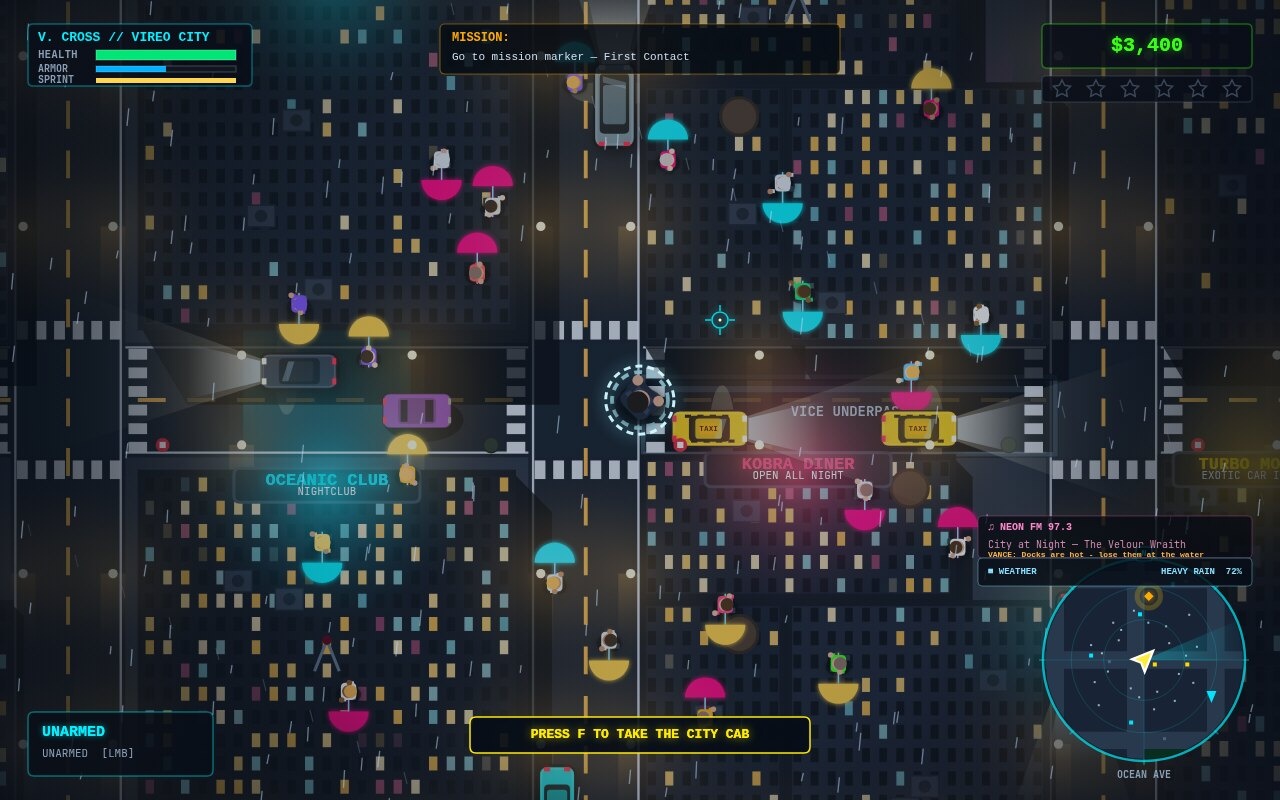
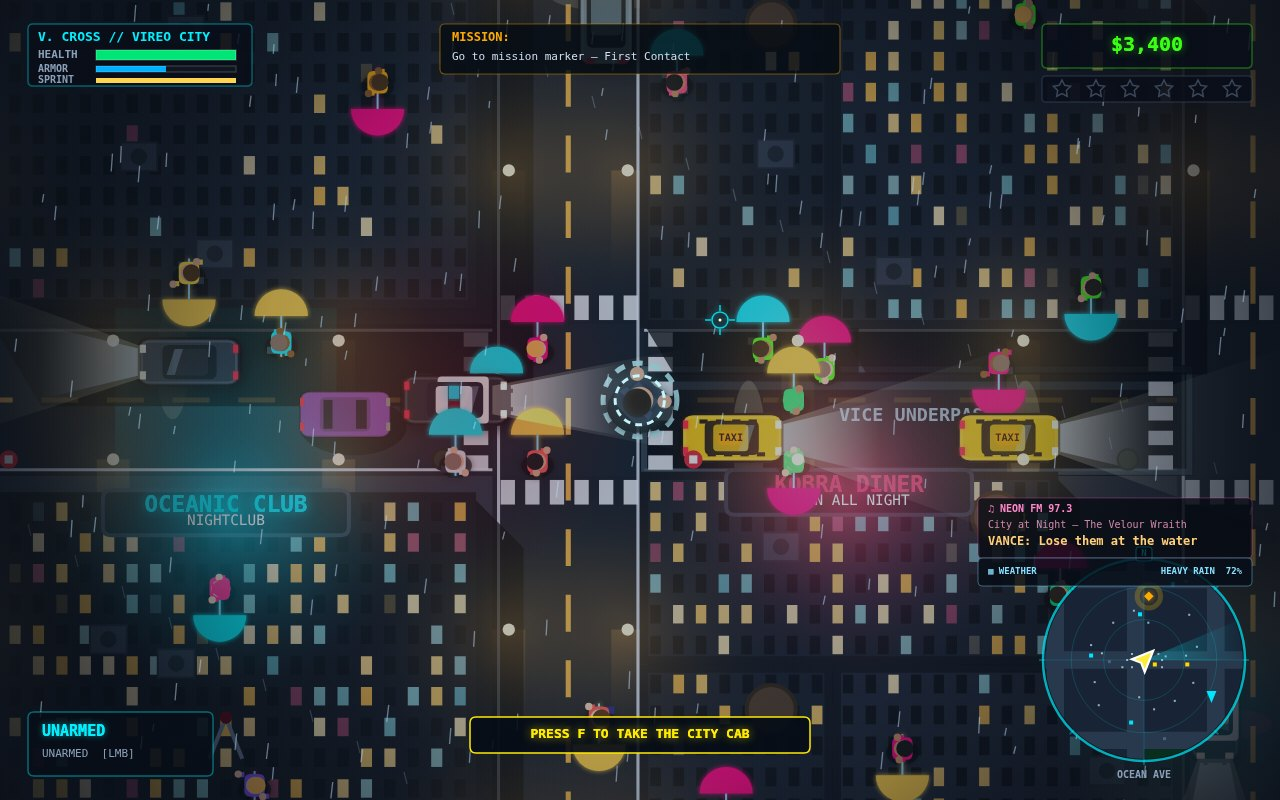
Bring the street shot close enough to read and speak the radio line

diff --git a/game/src/main.js b/game/src/main.js
@@ -140,14 +140,29 @@
       if (VC.traffic) VC.traffic.vehicles.push({ vehicle: nearCab });
 
       VC.camera.snapTo(spawnX, spawnY);
-      VC.camera.zoom = 1.55;
-      shotCamera = { zoom: 1.55, leadDist: 70 };
+      VC.camera.zoom = 2.05;
+      shotCamera = { zoom: 2.05, leadDist: 70 };
       VC.Input.mouse.screenX = 720; VC.Input.mouse.screenY = 320;
       gameTime = 3.5;
       if (VC.pedestrians) {
         VC.pedestrians.MAX_PEDESTRIANS = 24;
         VC.pedestrians.initDeterministic(VC.city, VC.player);
         if (VC.pedestrians.seedShotCrowd) VC.pedestrians.seedShotCrowd(22, VC.player);
+        // Keep a readable cluster of umbrella pedestrians in the road-facing frame.
+        var streetPedPositions = [
+          [690,680], [800,680], [690,735], [815,735],
+          [670,705], [815,705], [830,690], [650,735]
+        ];
+        for (var spi = 0; spi < streetPedPositions.length && spi < VC.pedestrians.pedestrians.length; spi++) {
+          var streetPed = VC.pedestrians.pedestrians[spi];
+          streetPed.x = streetPedPositions[spi][0];
+          streetPed.y = streetPedPositions[spi][1];
+          streetPed.walkAxis = spi % 2 ? 'v' : 'h';
+          streetPed.walkDir = spi % 3 === 0 ? -1 : 1;
+          streetPed.heading = streetPed.walkDir === 1 ? 0 : Math.PI;
+          streetPed.state = 'walking';
+          streetPed.stateTimer = 0;
+        }
         // Add deterministic umbrella/flee offsets to the existing crowd.
         for (var pi = 0; pi < VC.pedestrians.pedestrians.length; pi++) {
           var existingPed = VC.pedestrians.pedestrians[pi];
@@ -158,6 +173,24 @@
             existingPed.heading = pi % 2 ? Math.PI : 0;
           }
         }
+      }
+      if (VC.police) {
+        var streetPoliceCruiser = new VC.Vehicle('interceptor', 650, 705, 0);
+        streetPoliceCruiser.speed = 0;
+        streetPoliceCruiser.vx = 0;
+        streetPoliceCruiser.vy = 0;
+        streetPoliceCruiser.lightsOn = true;
+        streetPoliceCruiser.sirenOn = true;
+        streetPoliceCruiser.isPolice = true;
+        VC.police.cruisers.length = 0;
+        VC.police.cruisers.push({
+          vehicle: streetPoliceCruiser,
+          shootTimer: 1.4,
+          sirenPhase: 0,
+          state: 'chase',
+          disabled: false,
+          heavy: false
+        });
       }
       if (VC.weather) VC.weather.forceState('HEAVY_RAIN');
 
@@ -385,6 +418,16 @@
       VC.Menu.render(ctx, gameTime);
 
     } else if (VC.gameState === 'playing') {
+      // Keep the shot-only street interceptor flashing even with wanted level 0.
+      if (shotType === 'street' && VC.police && VC.police.cruisers) {
+        for (var sci = 0; sci < VC.police.cruisers.length; sci++) {
+          var streetCruiser = VC.police.cruisers[sci];
+          if (streetCruiser && streetCruiser.vehicle) {
+            streetCruiser.vehicle.sirenTimer = gameTime * 8;
+            streetCruiser.sirenPhase = (gameTime * 2.4 * Math.PI * 2) % (Math.PI * 2);
+          }
+        }
+      }
       VC.Renderer.render(ctx, VC.city, VC.player, VC.camera, gameTime);
 
       // Shot-only street halo: keep the on-foot protagonist readable over dark rain-slick roads.
@@ -398,7 +441,7 @@
         ctx.shadowColor = '#7deaff';
         ctx.shadowBlur = 14;
         ctx.beginPath();
-        var pursuitRadius = shotType === 'chase' ? 38 : 22;
+        var pursuitRadius = shotType === 'chase' ? 38 : 12;
         ctx.arc(outlineX, outlineY, pursuitRadius * VC.camera.zoom, 0, Math.PI * 2);
         ctx.stroke();
         ctx.setLineDash([]);

diff --git a/game/src/hud.js b/game/src/hud.js
@@ -598,7 +598,7 @@
 
     // ── Radio and weather banners (separate rows above minimap) ─────────────
     renderRadioBanner: function(ctx, timeSec) {
-      var rx = 1252, ry = 516, rw = 274, rh = 42, x = rx - rw;
+      var rx = 1252, ry = 498, rw = 274, rh = 60, x = rx - rw;
       var station = RADIO_STATIONS[radioIndex];
       var trackText = station.track;
       if (VC.Missions) {
@@ -629,13 +629,13 @@
       }
       ctx.fillStyle = '#cc88aa';
       ctx.textBaseline = 'top';
-      ctx.fillText(trackText, x + 10, ry + 24);
+      ctx.fillText(trackText, x + 10, ry + 22);
 
       // Chase-cover character line: keep it inside the fixed right-edge panel.
-      ctx.font = 'bold 8px "Courier New", monospace';
-      ctx.fillStyle = '#ffb347';
+      ctx.font = 'bold 12px "Courier New", monospace';
+      ctx.fillStyle = '#ffcf7a';
       ctx.textBaseline = 'top';
-      ctx.fillText("VANCE: Docks are hot - lose them at the water", x + 10, ry + 35);
+      ctx.fillText("VANCE: Lose them at the water", x + 10, ry + 38);
       ctx.restore();
 
       // Separate weather status row
